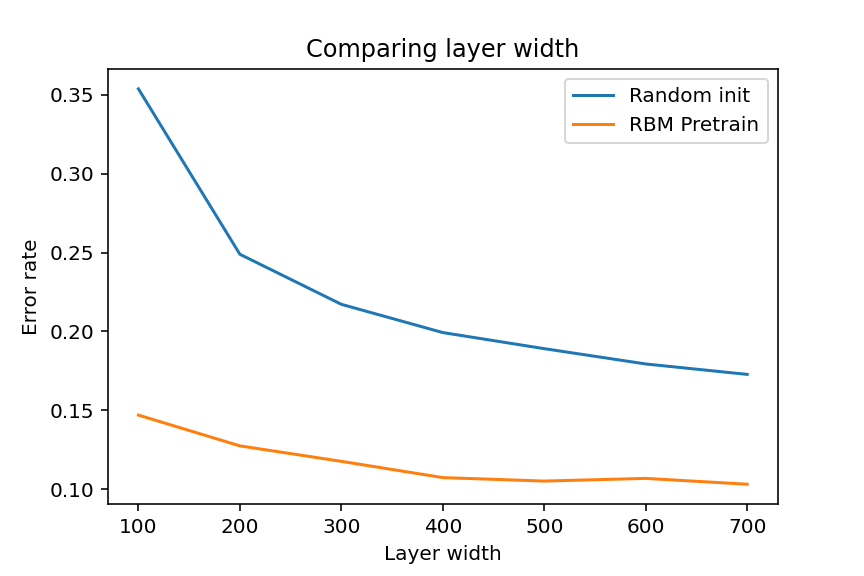
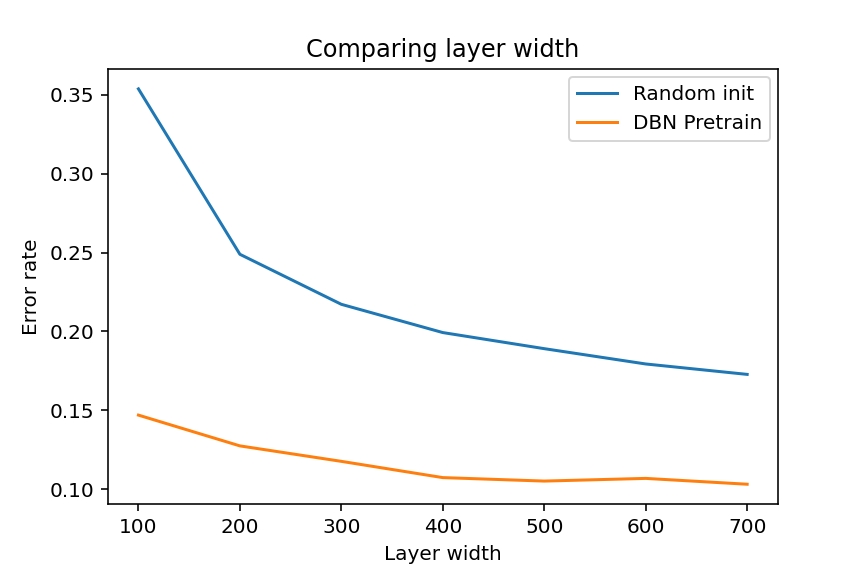
Changes legend, changes last best model

Changed region(s): [[0.6562, 0.125, 0.9062, 0.25]]

diff --git a/Analyse.py b/Analyse.py
@@ -7,7 +7,7 @@ from tools import *
 
 def plot_results(error_random_all, error_pretrained_all, horizontal, x_label, title):
     plt.plot(horizontal, error_random_all, label="Random init")
-    plt.plot(horizontal, error_pretrained_all, label="RBM Pretrain")
+    plt.plot(horizontal, error_pretrained_all, label="DBN Pretrain")
     plt.ylabel("Error rate")
     plt.xlabel(x_label)
     plt.title(title)
@@ -139,7 +139,12 @@ plot_results(
 # On cherchera enfin une configuration permettant d’obtenir le meilleur
 # taux de classification possible (ne pas hésiter à utiliser les 60000 données
 # et des réseaux de grande taille).
-error_random, error_pretrained = compare_dnn_init(
-    X_train, y_train, X_test, y_test, [784, 600, 400, 200, 10]
-)  # Architecture classique
-print(f"Meilleure erreur: {error_pretrained}")
+
+dnn = DNN([784, 600, 400, 200, 10])
+dbn = DBN([784, 600, 400, 200])
+print("Pretraining RBM...")
+dbn.train(X_train, epochs=200, batch_size=64, learning_rate=0.1)
+dnn.init_DNN_with_DBN(dbn)
+dnn.train(X_train, y_train, epochs=150, batch_size=32, learning_rate=0.1)
+error = dnn.error_rate(X_test, y_test)
+print(f"Meilleure erreur: {error}")
